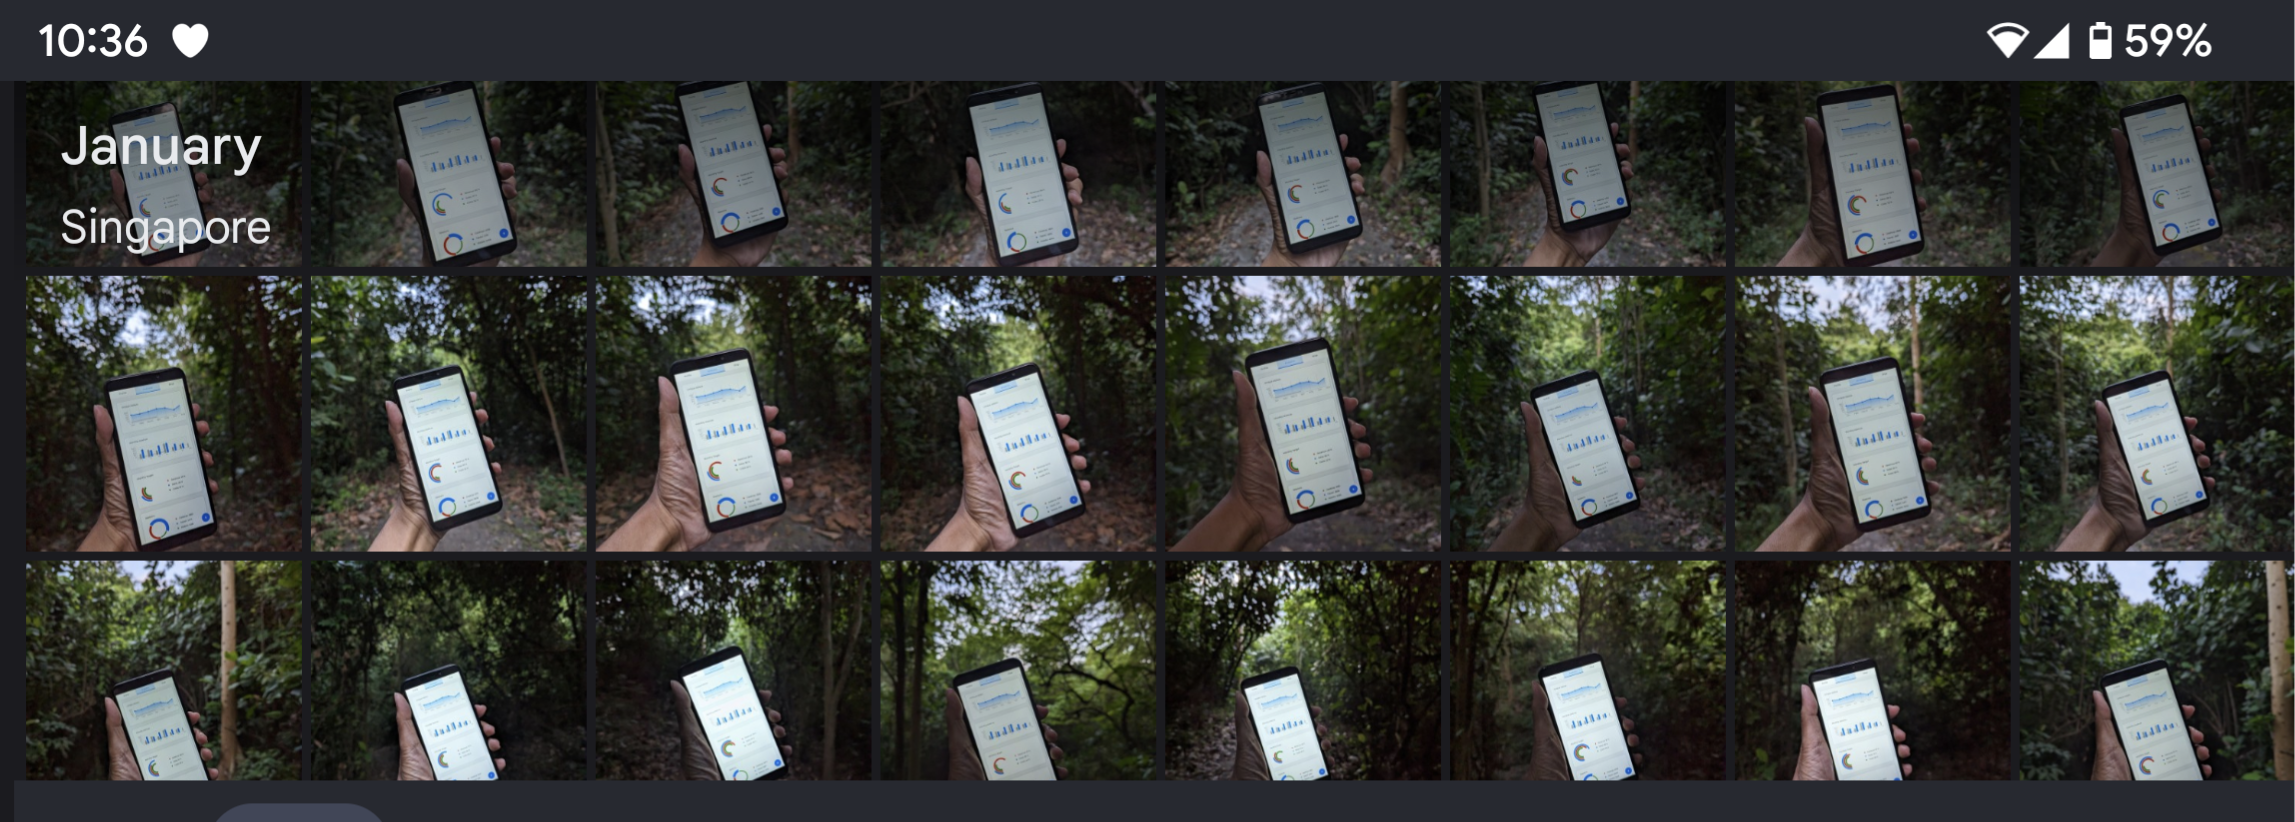
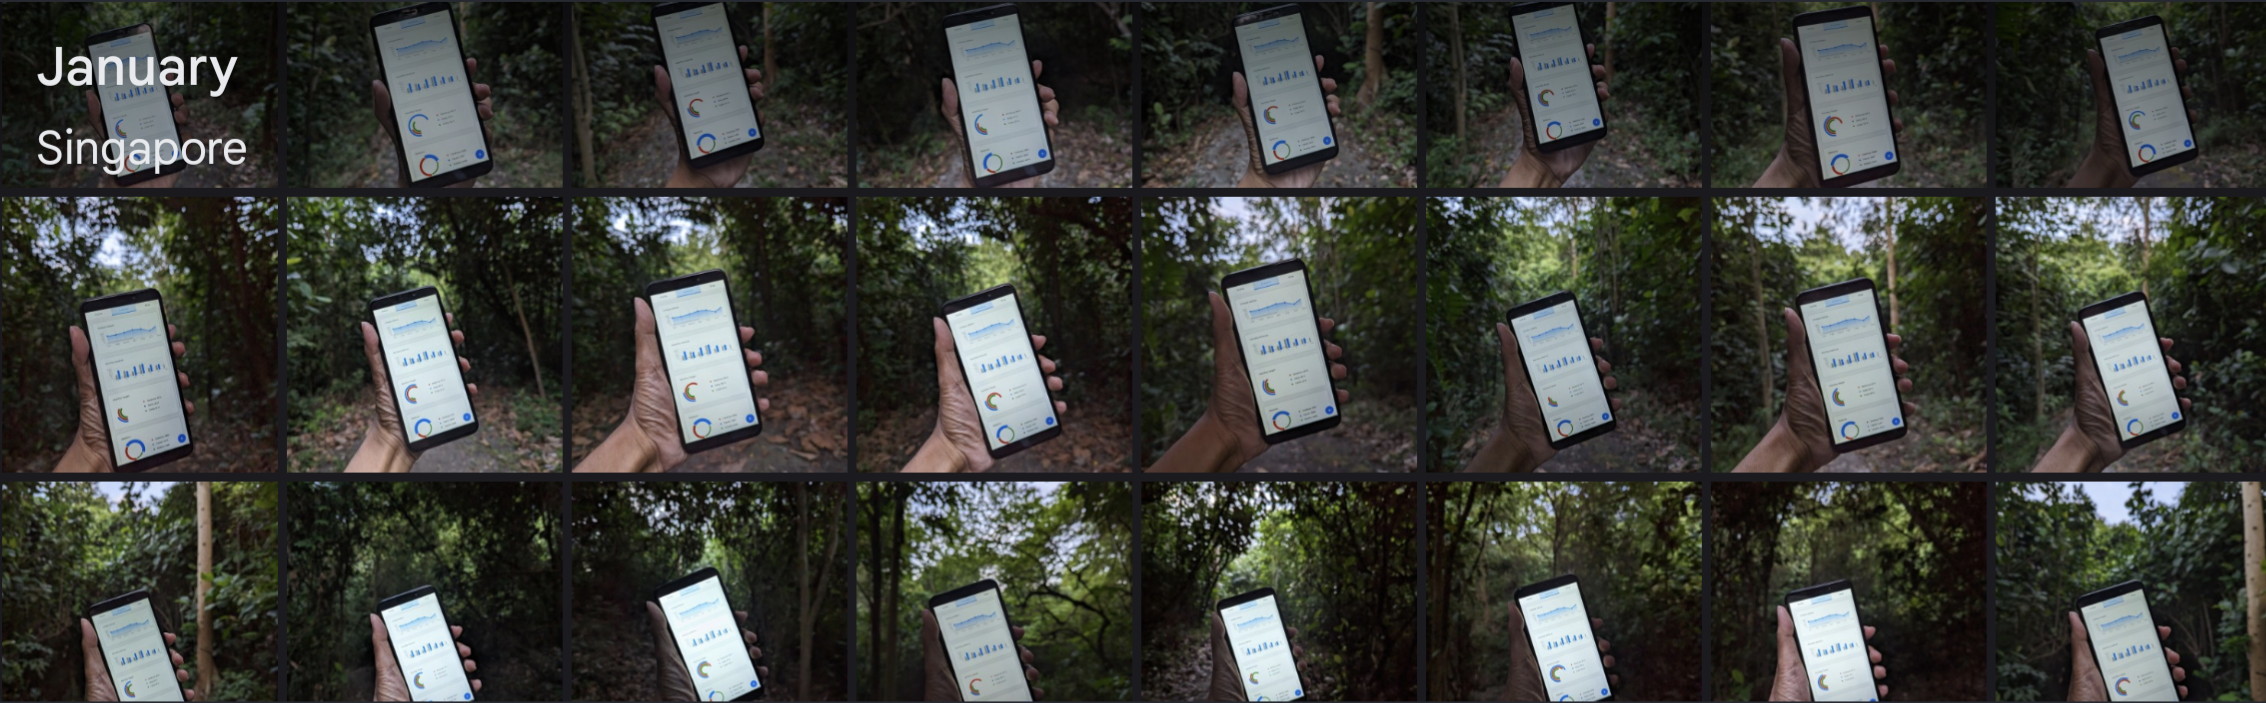
Update article

diff --git a/src/lvgl2.md b/src/lvgl2.md
@@ -391,6 +391,8 @@ TODO: Maybe build in Zig?
 
 TODO: LED turns white if `lvgldemo` fails to start
 
+![NuttX on PinePhone in the wild](https://lupyuen.github.io/images/lvgl2-gallery.jpg)
+
 # What's Next
 
 TODO
